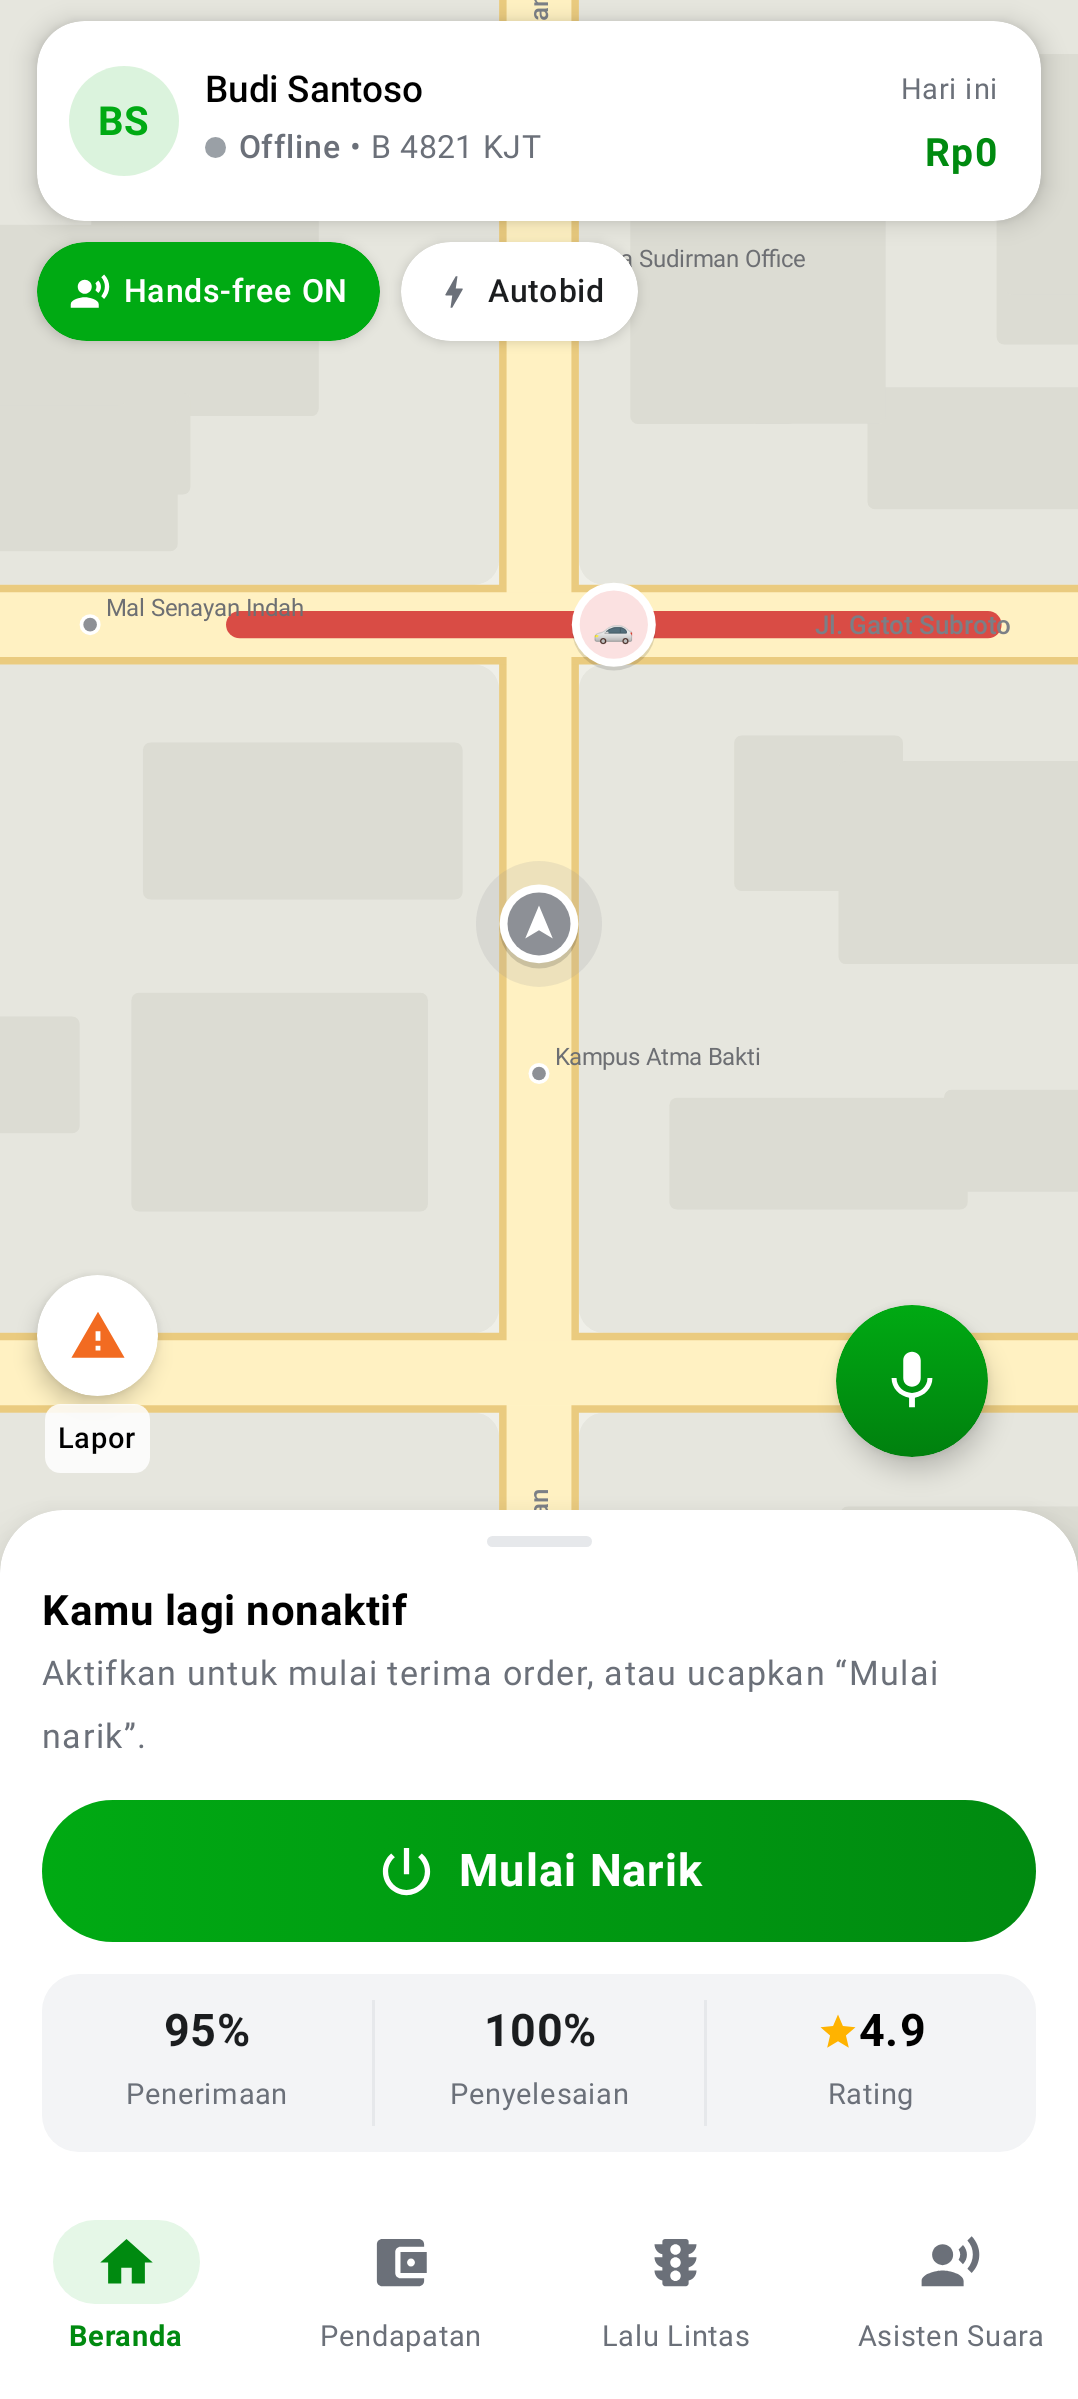
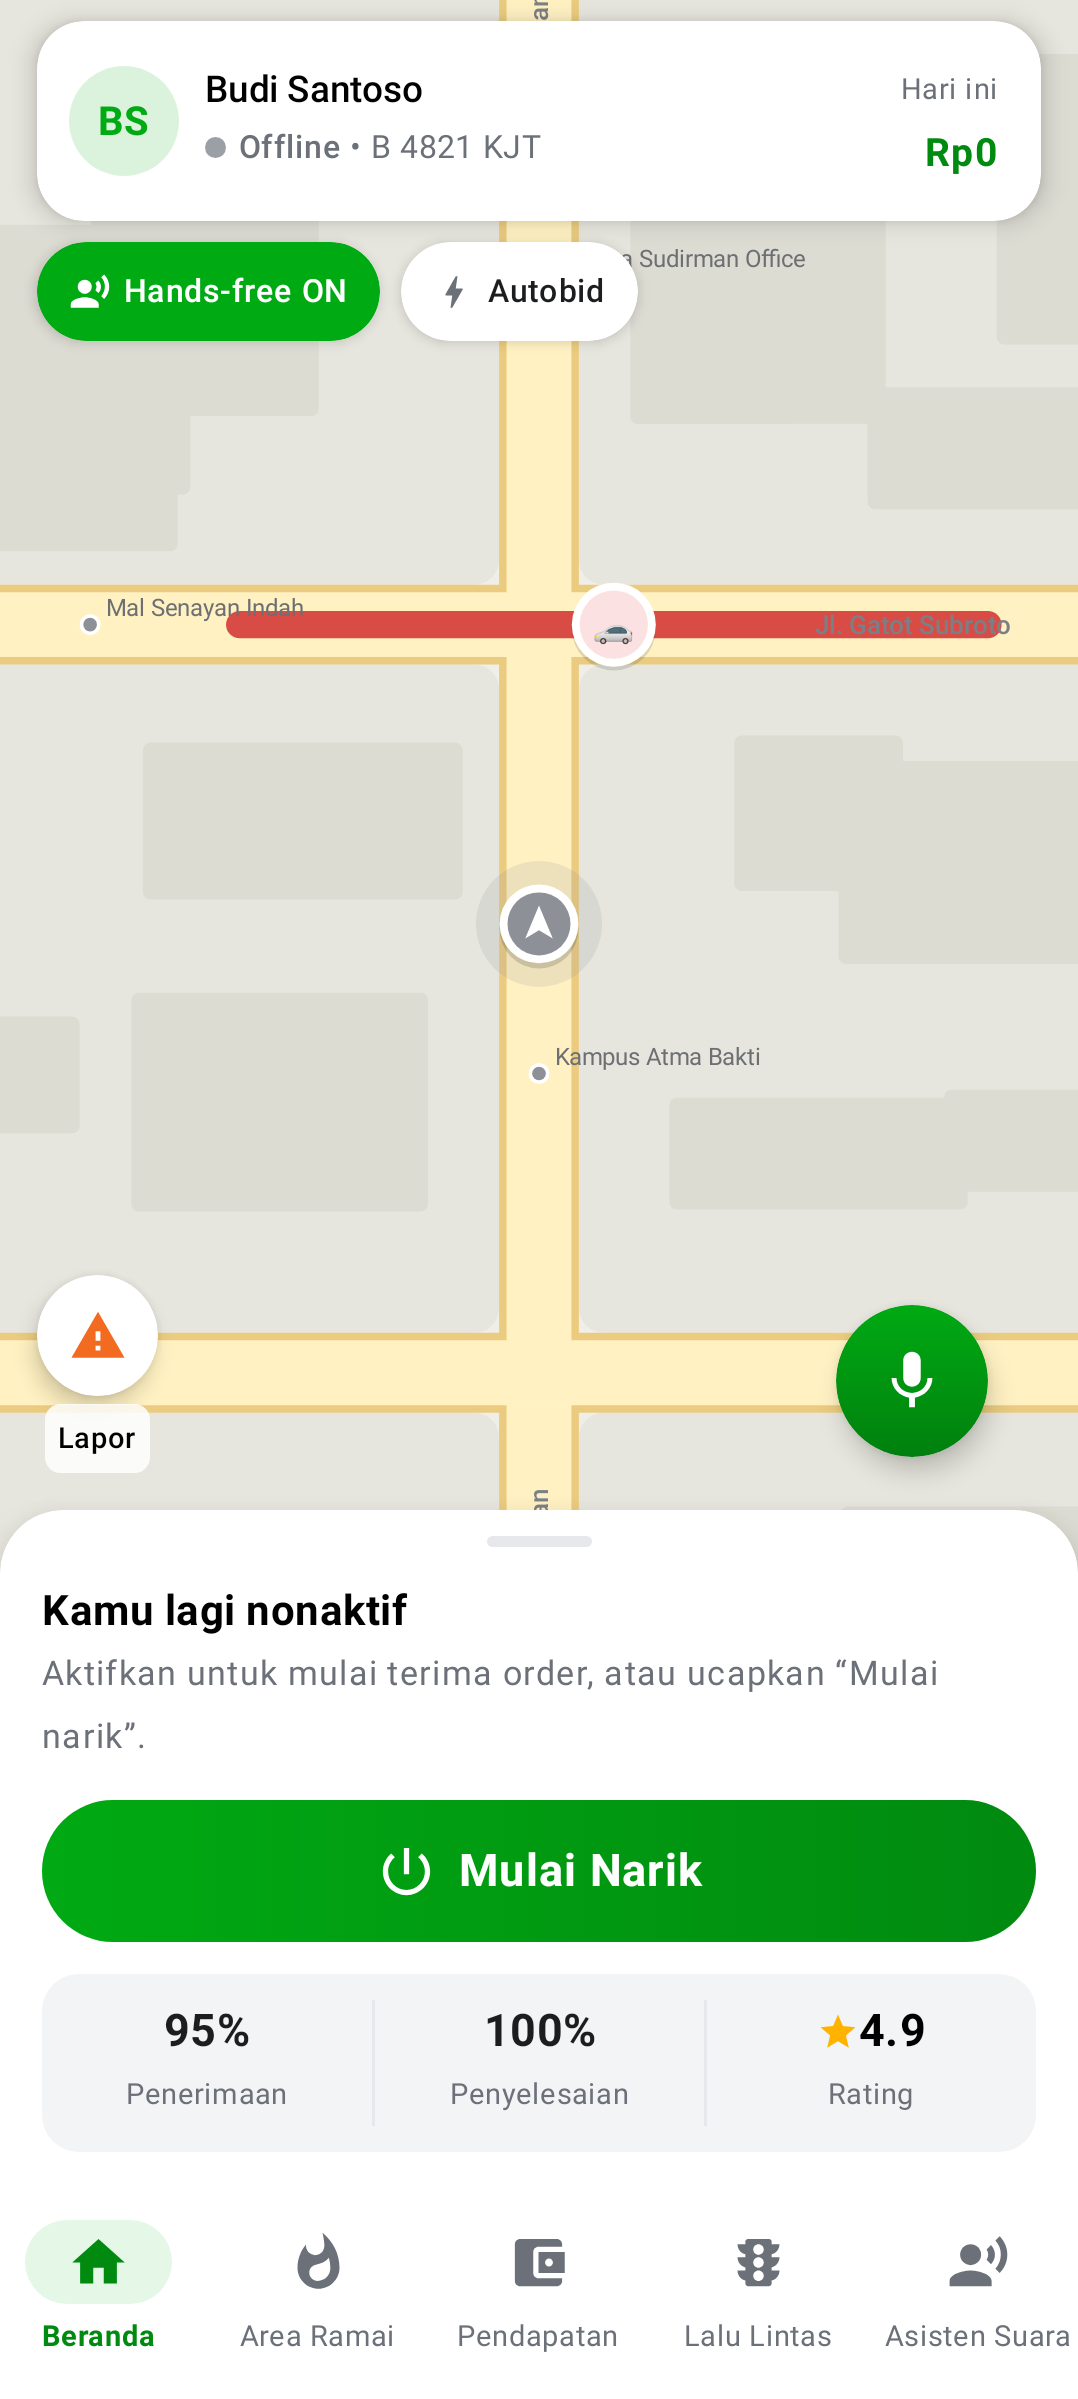
Polish the Area Ramai page and add its screenshots
From the first rendered screenshots:
- Add the mic button to the page, so "detail nomor 2" and "berikutnya"
  can be asked without going back to Beranda.
- Rename the moderate level "Sedang" to "Lumayan" and the time chip to
  "Ramai sekarang"; "Sedang ramai" next to "Sedang" read as a
  contradiction.
- Move the legend below the map; it covered the driver's marker.
- Place park events a little above the park centre so the number badge
  does not cover the park's name.
- UI test asserts the nearest area (the lazy list only composes visible
  rows).

Screenshots regenerated with the 5-tab bar; 14 and 15 show the new page.

Claude-Session: https://claude.ai/code/session_017hUoE8d4RKV11YaM6F3HPV

diff --git a/samples/ojol-mitra/shared/src/commonMain/kotlin/id/ojolmitra/driver/ui/screens/HeatmapScreen.kt b/samples/ojol-mitra/shared/src/commonMain/kotlin/id/ojolmitra/driver/ui/screens/HeatmapScreen.kt
@@ -48,6 +48,7 @@ import id.ojolmitra.driver.model.formatKm
 import id.ojolmitra.driver.model.formatTimeOfDay
 import id.ojolmitra.driver.model.formatTimeRange
 import id.ojolmitra.driver.ui.components.CityMapView
+import id.ojolmitra.driver.ui.components.MicFab
 import id.ojolmitra.driver.ui.components.Pill
 import id.ojolmitra.driver.ui.theme.Ojol
 import id.ojolmitra.driver.ui.theme.color
@@ -67,12 +68,14 @@ fun HeatmapScreen(
     onReadAll: () -> Unit,
     onReadOne: (Int) -> Unit,
     onStopReading: () -> Unit,
+    onMic: () -> Unit,
 ) {
     val spots = state.hotspots
     val speaking = voice.phase == VoicePhase.SPEAKING
+    Box(Modifier.fillMaxSize()) {
     LazyColumn(
         Modifier.fillMaxSize().background(Ojol.Background),
-        contentPadding = PaddingValues(bottom = 24.dp),
+        contentPadding = PaddingValues(bottom = 96.dp),
     ) {
         item { HeatmapHeader(spots, state.hotspotsAtMinute) }
         item {
@@ -85,7 +88,7 @@ fun HeatmapScreen(
         item {
             Box(
                 Modifier
-                    .padding(16.dp)
+                    .padding(start = 16.dp, end = 16.dp, top = 16.dp)
                     .fillMaxWidth()
                     .height(250.dp)
                     .clip(RoundedCornerShape(18.dp))
@@ -99,8 +102,8 @@ fun HeatmapScreen(
                     overview = listOf(location.position) + spots.take(5).map { it.position },
                     hotspots = spots,
                 )
-                HeatLegend(Modifier.align(Alignment.BottomStart).padding(10.dp))
             }
+            HeatLegend(Modifier.padding(horizontal = 16.dp, vertical = 10.dp))
         }
         item {
             Row(Modifier.padding(horizontal = 16.dp), verticalAlignment = Alignment.CenterVertically) {
@@ -132,6 +135,9 @@ fun HeatmapScreen(
             )
         }
     }
+    // Mic untuk tanya lanjut: "detail nomor 2", "berikutnya", "ada acara apa".
+    MicFab(voice, onMic, Modifier.align(Alignment.BottomEnd).padding(end = 14.dp, bottom = 14.dp))
+    }
 }
 
 @Composable
@@ -153,7 +159,7 @@ private fun HeatmapHeader(spots: List<Hotspot>, atMinute: Int) {
         Row(horizontalArrangement = Arrangement.spacedBy(8.dp)) {
             Pill("Jam ${formatTimeOfDay(atMinute)}", Color.White.copy(alpha = 0.2f), Color.White)
             Pill("${spots.size} area", Color.White.copy(alpha = 0.2f), Color.White)
-            Pill("${spots.count { it.ongoing }} sedang ramai", Color.White.copy(alpha = 0.2f), Color.White)
+            Pill("${spots.count { it.ongoing }} ramai sekarang", Color.White.copy(alpha = 0.2f), Color.White)
             val events = spots.count { it.event != null }
             if (events > 0) Pill("$events acara", Color.White.copy(alpha = 0.2f), Color.White)
         }
@@ -200,18 +206,15 @@ private fun ReadAloudCard(speaking: Boolean, onClick: () -> Unit, modifier: Modi
 @Composable
 private fun HeatLegend(modifier: Modifier = Modifier) {
     Row(
-        modifier
-            .clip(RoundedCornerShape(10.dp))
-            .background(Color.White.copy(alpha = 0.92f))
-            .padding(horizontal = 8.dp, vertical = 5.dp),
-        horizontalArrangement = Arrangement.spacedBy(8.dp),
+        modifier,
+        horizontalArrangement = Arrangement.spacedBy(12.dp),
         verticalAlignment = Alignment.CenterVertically,
     ) {
         HotspotLevel.entries.forEach { level ->
             Row(verticalAlignment = Alignment.CenterVertically) {
                 Box(Modifier.size(9.dp).clip(CircleShape).background(level.color()))
                 Spacer(Modifier.width(4.dp))
-                Text(level.label, fontSize = 10.sp, fontWeight = FontWeight.Medium)
+                Text(level.label, fontSize = 11.sp, fontWeight = FontWeight.Medium, color = Ojol.TextSecondary)
             }
         }
     }
@@ -259,7 +262,7 @@ private fun HotspotCard(spot: Hotspot, number: Int, onRead: () -> Unit) {
                 Text(formatTimeRange(spot.startMinute, spot.endMinute), fontWeight = FontWeight.Bold, fontSize = 14.sp)
                 Spacer(Modifier.width(8.dp))
                 if (spot.ongoing) {
-                    Pill("Sedang ramai", Ojol.Red.copy(alpha = 0.1f), Ojol.Red)
+                    Pill("Ramai sekarang", Ojol.Red.copy(alpha = 0.1f), Ojol.Red)
                 } else {
                     Pill("${formatDuration(spot.startsInMinutes)} lagi", Ojol.Amber.copy(alpha = 0.16f), Color(0xFFA86B00))
                 }

diff --git a/samples/ojol-mitra/androidApp/src/test/kotlin/id/ojolmitra/driver/android/DriverJourneyScreenshotTest.kt b/samples/ojol-mitra/androidApp/src/test/kotlin/id/ojolmitra/driver/android/DriverJourneyScreenshotTest.kt
@@ -17,6 +17,7 @@ import id.asbun.voice.VoiceEngineListener
 import id.asbun.voice.VoiceSdk
 import id.ojolmitra.driver.App
 import id.ojolmitra.driver.core.DriverController
+import id.ojolmitra.driver.sim.DemandForecast
 import id.ojolmitra.driver.ui.screens.DriverApp
 import id.ojolmitra.driver.ui.theme.OjolTheme
 import id.ojolmitra.driver.voice.OjolMitraVoice
@@ -211,7 +212,9 @@ class DriverJourneyScreenshotTest {
         compose.onNodeWithText("Area Ramai").performClick()
         advance(1_000)
         assertTrue("halaman dibacakan saat dibuka", engine.spoken.any { it.startsWith("Ada ") && it.contains("area ramai") })
-        compose.onNodeWithText("Stasiun Dukuh Atas").assertExists()
+        // Daftar hanya menyusun kartu yang terlihat: cek area terdekat (nomor 1).
+        val nearest = DemandForecast.forecast(17 * 60 + 40, DriverController.START_POSITION).first()
+        compose.onNodeWithText(nearest.name).assertExists()
         shot("14_area_ramai")
 
         speakCommand("detail nomor 1")

diff --git a/samples/ojol-mitra/shared/src/commonMain/kotlin/id/ojolmitra/driver/model/Hotspots.kt b/samples/ojol-mitra/shared/src/commonMain/kotlin/id/ojolmitra/driver/model/Hotspots.kt
@@ -7,7 +7,7 @@ import kotlin.math.max
 enum class HotspotLevel(val label: String, val spoken: String) {
     SANGAT_RAMAI("Sangat ramai", "sangat ramai"),
     RAMAI("Ramai", "ramai"),
-    SEDANG("Sedang", "lumayan ramai"),
+    LUMAYAN("Lumayan", "lumayan ramai"),
 }
 
 /** Kenapa sebuah area ramai. [spoken] dirangkai ke kalimat TTS: "ramai karena ...". */
@@ -65,7 +65,7 @@ data class Hotspot(
         get() = when {
             peoplePerDriver >= SANGAT_RAMAI_PER_DRIVER -> HotspotLevel.SANGAT_RAMAI
             peoplePerDriver >= RAMAI_PER_DRIVER -> HotspotLevel.RAMAI
-            else -> HotspotLevel.SEDANG
+            else -> HotspotLevel.LUMAYAN
         }
     val etaMinutes: Int get() = etaMinutes(distanceKm)
 

diff --git a/samples/ojol-mitra/shared/src/commonMain/kotlin/id/ojolmitra/driver/sim/DemandForecast.kt b/samples/ojol-mitra/shared/src/commonMain/kotlin/id/ojolmitra/driver/sim/DemandForecast.kt
@@ -117,7 +117,8 @@ object DemandForecast {
 
     private fun atPark(id: String, parkName: String, start: String, end: String, people: Int, drivers: Int, event: Pair<HotspotEvent, Int>) =
         Template(
-            id, parkName, park(parkName).area.center, t(start), t(end), people, drivers, HotspotReason.ACARA,
+            // Sedikit di atas tengah taman supaya nomornya tidak menutupi nama taman di peta.
+            id, parkName, park(parkName).area.center.let { MapPoint(it.x, it.y - 60f) }, t(start), t(end), people, drivers, HotspotReason.ACARA,
             event.first, visibleFrom = minOf(t(start), event.second),
         )
 

diff --git a/samples/ojol-mitra/shared/src/commonMain/kotlin/id/ojolmitra/driver/ui/screens/DriverApp.kt b/samples/ojol-mitra/shared/src/commonMain/kotlin/id/ojolmitra/driver/ui/screens/DriverApp.kt
@@ -95,6 +95,7 @@ fun DriverApp(controller: DriverController) {
                         onReadAll = controller::readHotspotsAloud,
                         onReadOne = controller::readHotspotAloud,
                         onStopReading = controller::stopReading,
+                        onMic = controller::onMicPressed,
                     )
                     state.tab == HomeTab.PENDAPATAN -> EarningsScreen(state.earnings, state.completedTrips)
                     state.tab == HomeTab.LALU_LINTAS -> TrafficScreen(

diff --git a/samples/ojol-mitra/shared/src/commonMain/kotlin/id/ojolmitra/driver/voice/Speech.kt b/samples/ojol-mitra/shared/src/commonMain/kotlin/id/ojolmitra/driver/voice/Speech.kt
@@ -107,7 +107,7 @@ object Speech {
             when (spot.level) {
                 HotspotLevel.SANGAT_RAMAI -> "Peluang order tinggi, driver masih sedikit."
                 HotspotLevel.RAMAI -> "Peluang order bagus."
-                HotspotLevel.SEDANG -> "Lumayan ramai, tapi driver di sana sudah cukup banyak."
+                HotspotLevel.LUMAYAN -> "Lumayan ramai, tapi driver di sana sudah cukup banyak."
             },
         )
     }

diff --git a/samples/ojol-mitra/shared/src/commonTest/kotlin/id/ojolmitra/driver/HotspotForecastTest.kt b/samples/ojol-mitra/shared/src/commonTest/kotlin/id/ojolmitra/driver/HotspotForecastTest.kt
@@ -114,7 +114,7 @@ class HotspotForecastTest {
             val expected = when {
                 spot.people / spot.drivers >= 18 -> HotspotLevel.SANGAT_RAMAI
                 spot.people / spot.drivers >= 11 -> HotspotLevel.RAMAI
-                else -> HotspotLevel.SEDANG
+                else -> HotspotLevel.LUMAYAN
             }
             assertEquals(expected, spot.level, spot.name)
         }

diff --git a/samples/ojol-mitra/shared/src/commonMain/kotlin/id/ojolmitra/driver/ui/theme/Theme.kt b/samples/ojol-mitra/shared/src/commonMain/kotlin/id/ojolmitra/driver/ui/theme/Theme.kt
@@ -67,7 +67,7 @@ fun TrafficType.color(): Color = when (this) {
 fun HotspotLevel.color(): Color = when (this) {
     HotspotLevel.SANGAT_RAMAI -> Color(0xFFE53935)
     HotspotLevel.RAMAI -> Color(0xFFF26B21)
-    HotspotLevel.SEDANG -> Color(0xFFF4A300)
+    HotspotLevel.LUMAYAN -> Color(0xFFF4A300)
 }
 
 fun Severity.color(): Color = when (this) {

diff --git a/README.md b/README.md
@@ -16,6 +16,8 @@ Ojol Mitra is a Kotlin Multiplatform prototype of a ride-hailing driver app for 
 | ![](docs/screenshots/02_beranda_online.png) | ![](docs/screenshots/03_order_masuk_voice.png) | ![](docs/screenshots/04_perjalanan_jemput.png) | ![](docs/screenshots/05_panel_suara_chat.png) |
 | **Chat by voice** | **Traffic report by voice** | **Order completed** | **Voice assistant tab** |
 | ![](docs/screenshots/06_chat_customer.png) | ![](docs/screenshots/07_lapor_macet_suara.png) | ![](docs/screenshots/10_order_selesai.png) | ![](docs/screenshots/13_asisten_suara.png) |
+| **Busy areas (heat map)** | **Area detail by voice** | | |
+| ![](docs/screenshots/14_area_ramai.png) | ![](docs/screenshots/15_area_ramai_detail_suara.png) | | |
 
 Screenshots are generated by the Android end-to-end UI test (Robolectric + Roborazzi).
 
